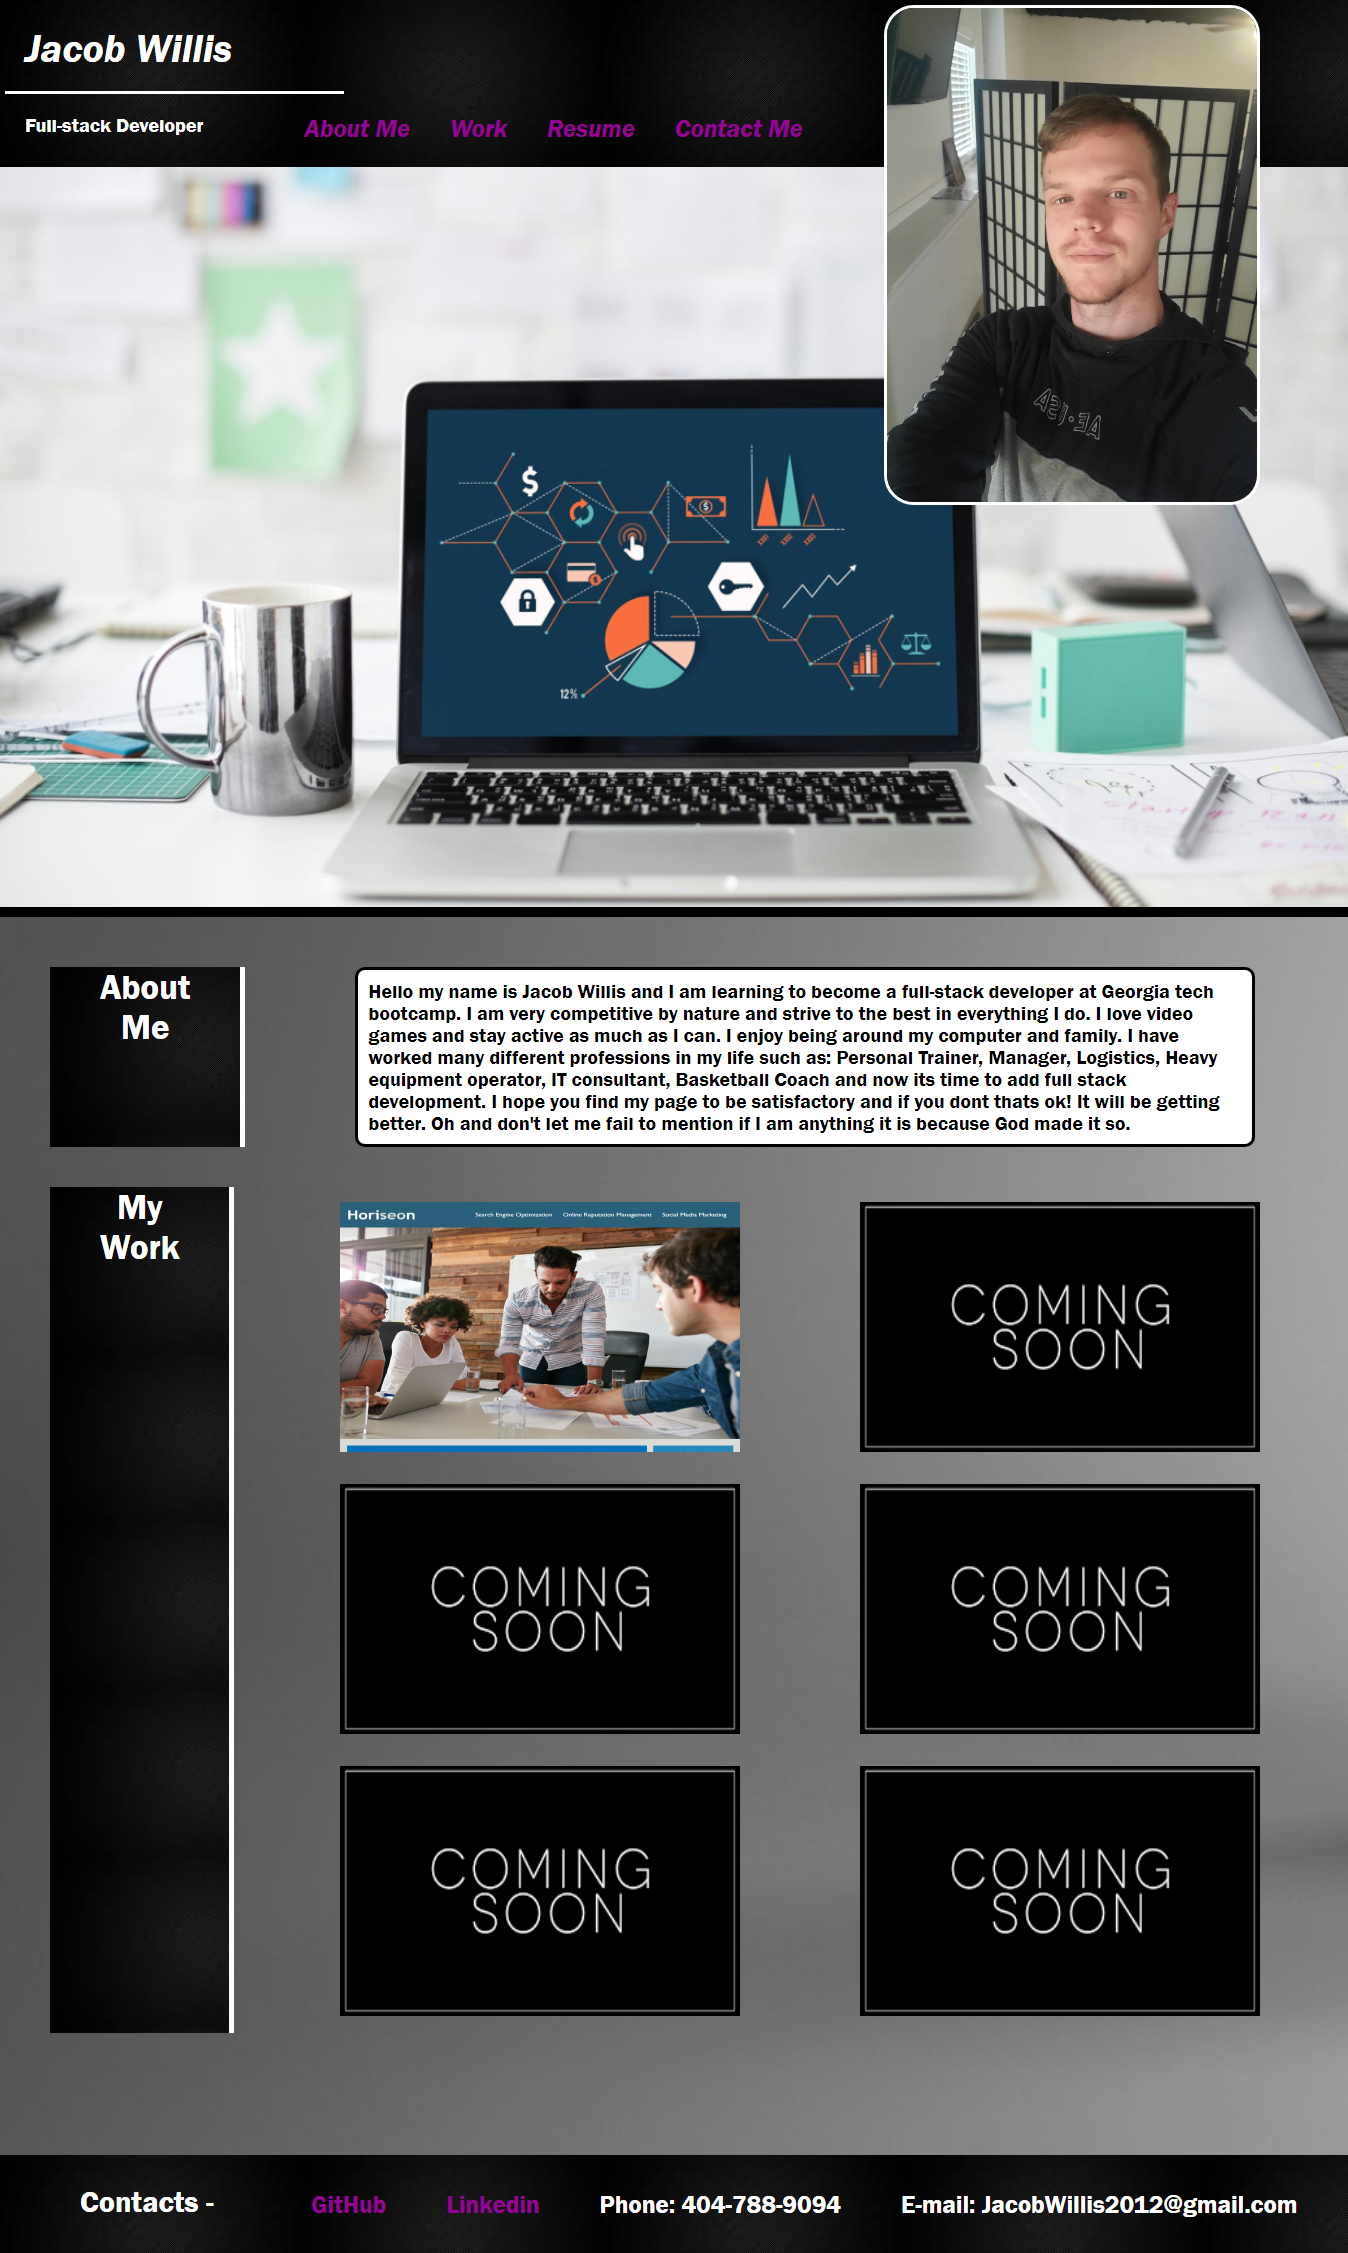
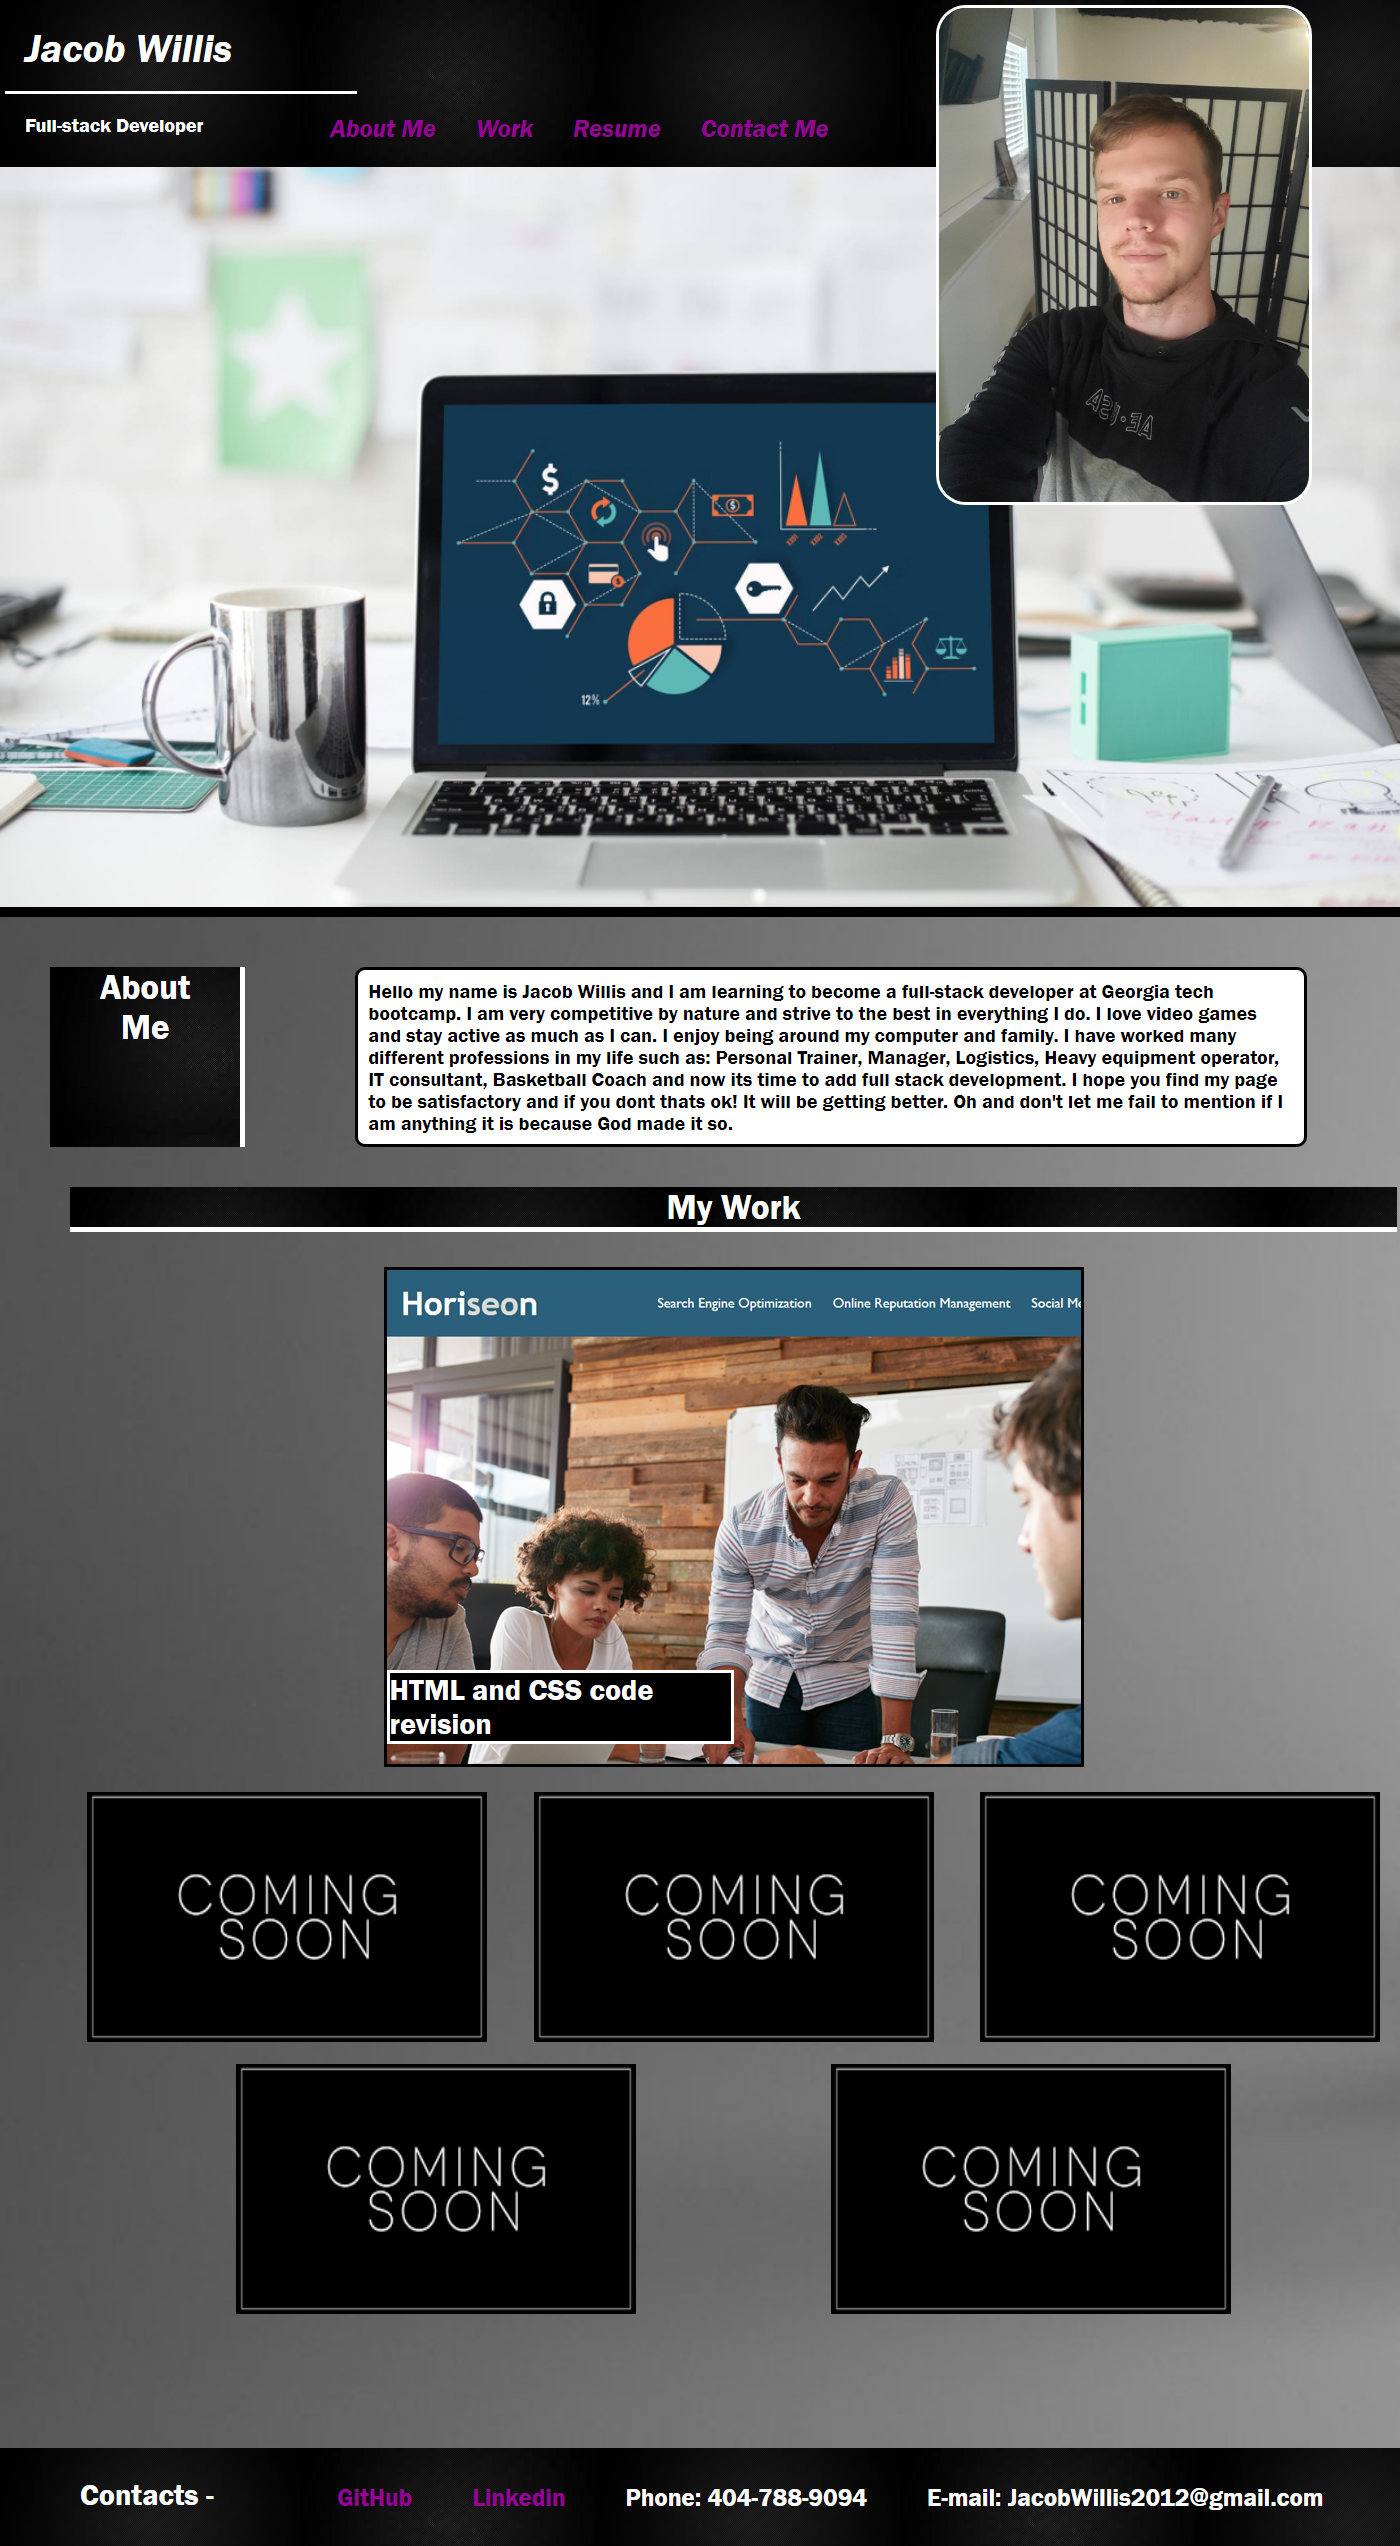
"Final updates to all of my CSS for better view."

diff --git a/assets/style.css b/assets/style.css
@@ -129,8 +129,9 @@ section article h2 {
 
 .work-panel {
     display: flex;
-    flex-direction: row;
     text-align: center;
+    flex-direction: column;
+    align-items: center;
 }
 
 .link-to-applications {
@@ -142,7 +143,7 @@ section article h2 {
 .resizeimg {
     width: 40rem;
     height: 25rem;
-    margin: 10rem;
+    margin: 1rem;
 }
 /* To make even with other images Wdith: 40rem, Height: 25rem; */
 #resizeimg1 {
@@ -164,6 +165,19 @@ section article h2 {
 }
 
 
+#mywork {
+    background-image: url(./images/black\ background\ image.jpg);
+    border-bottom:  .5rem solid white;
+    padding-left: 5rem;
+    padding-right: 5rem;
+    color: white;
+    margin: 2rem;
+    text-align: center;
+}
+
+.bigimage {
+    display: flex;
+}
 
 #avatar {
     height: 50rem;
@@ -183,12 +197,17 @@ section article h2 {
     margin-left: 5rem;
 }
 
-.link-to-applications #resizeimg1,#text-overlay:hover {
+#resizeimg1:hover #text-overlay {
     filter:contrast(200%);
     box-shadow: 0rem 0rem 5rem 0rem white;
     transition: 1s;
 }
 
+#resizeimg1:hover {
+    filter:contrast(200%);
+    box-shadow: 0rem 0rem 5rem 0rem white;
+    transition: 1s;
+}
 
 @media all and (max-width: 768px) {
     header, footer {

diff --git a/index.html b/index.html
@@ -52,10 +52,13 @@
                      dont thats ok! It will be getting better. Oh and don't let me fail to mention 
                      if I am anything it is because God made it so. </p>
             </article>
+            <div id="mywork"><h2>My Work</h2></div>
             <article id="work" class="work-panel">
-                <h2>My Work-</h2>
-                <div class="link-to-applications">
+                <!-- <h2>My Work-</h2> -->
+                <div class="bigimage">                
                     <a href="https://jacobryanwillis.github.io/First-Challenge-Assignment/" id="resizeimg1" alt= "First project"><h3 id="text-overlay">HTML and CSS code revision</h3></a>
+                </div>
+                <div class="link-to-applications">
                     <a href="https://www.youtube.com/"><img class="resizeimg"src="assets\images\comingsoon.png" alt= "Coming-soon image"></a>
                     <a href="https://www.youtube.com/"><img class="resizeimg"src="assets\images\comingsoon.png" alt= "coming-soon image"></a>
                     <a href="https://www.youtube.com/"><img class="resizeimg"src="assets\images\comingsoon.png" alt= "coming-soon image"></a>
